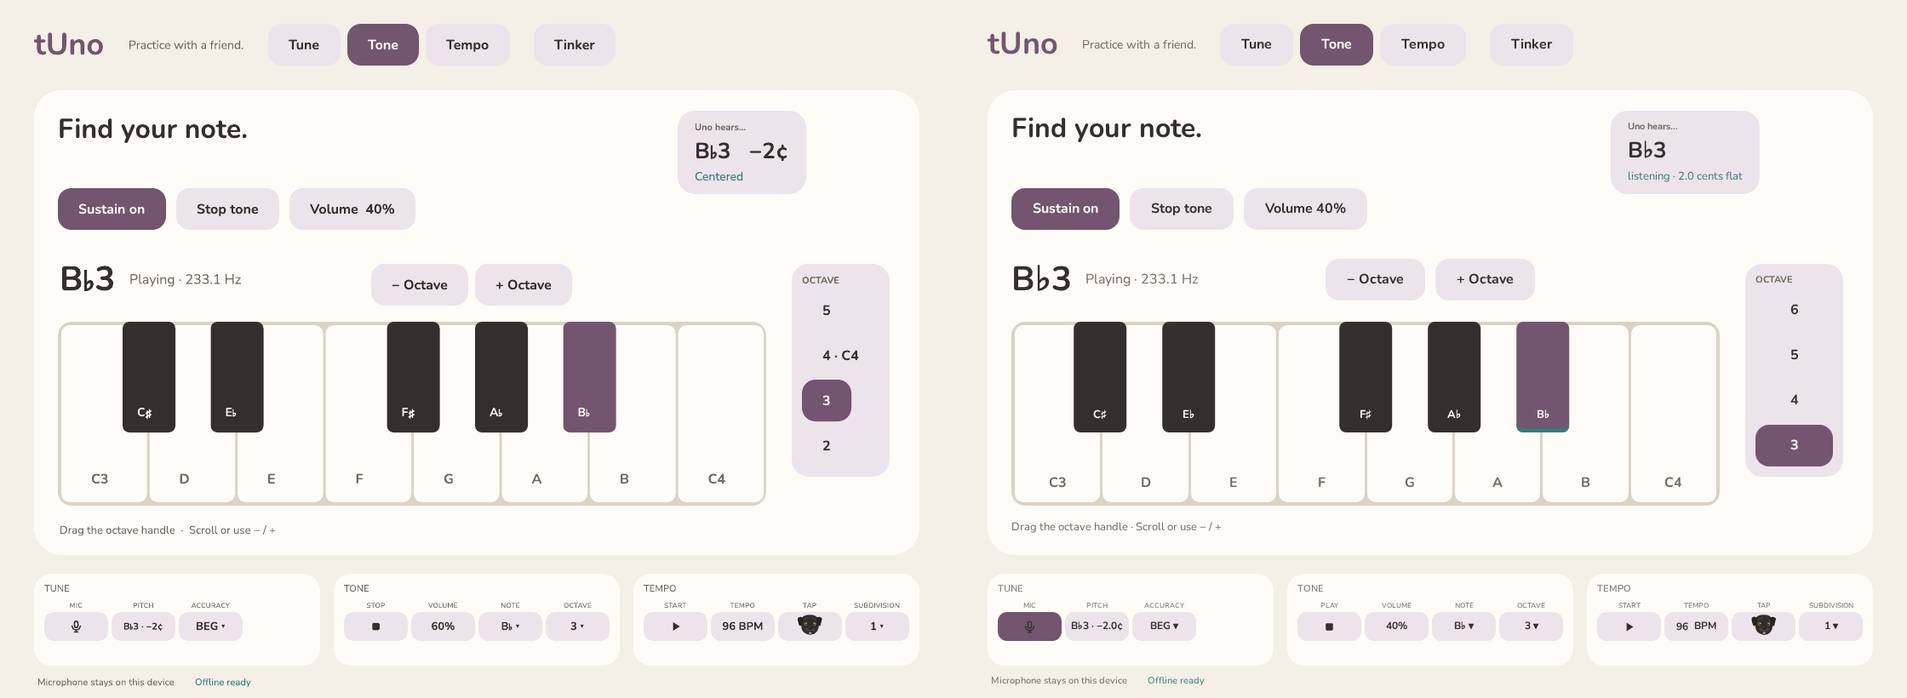
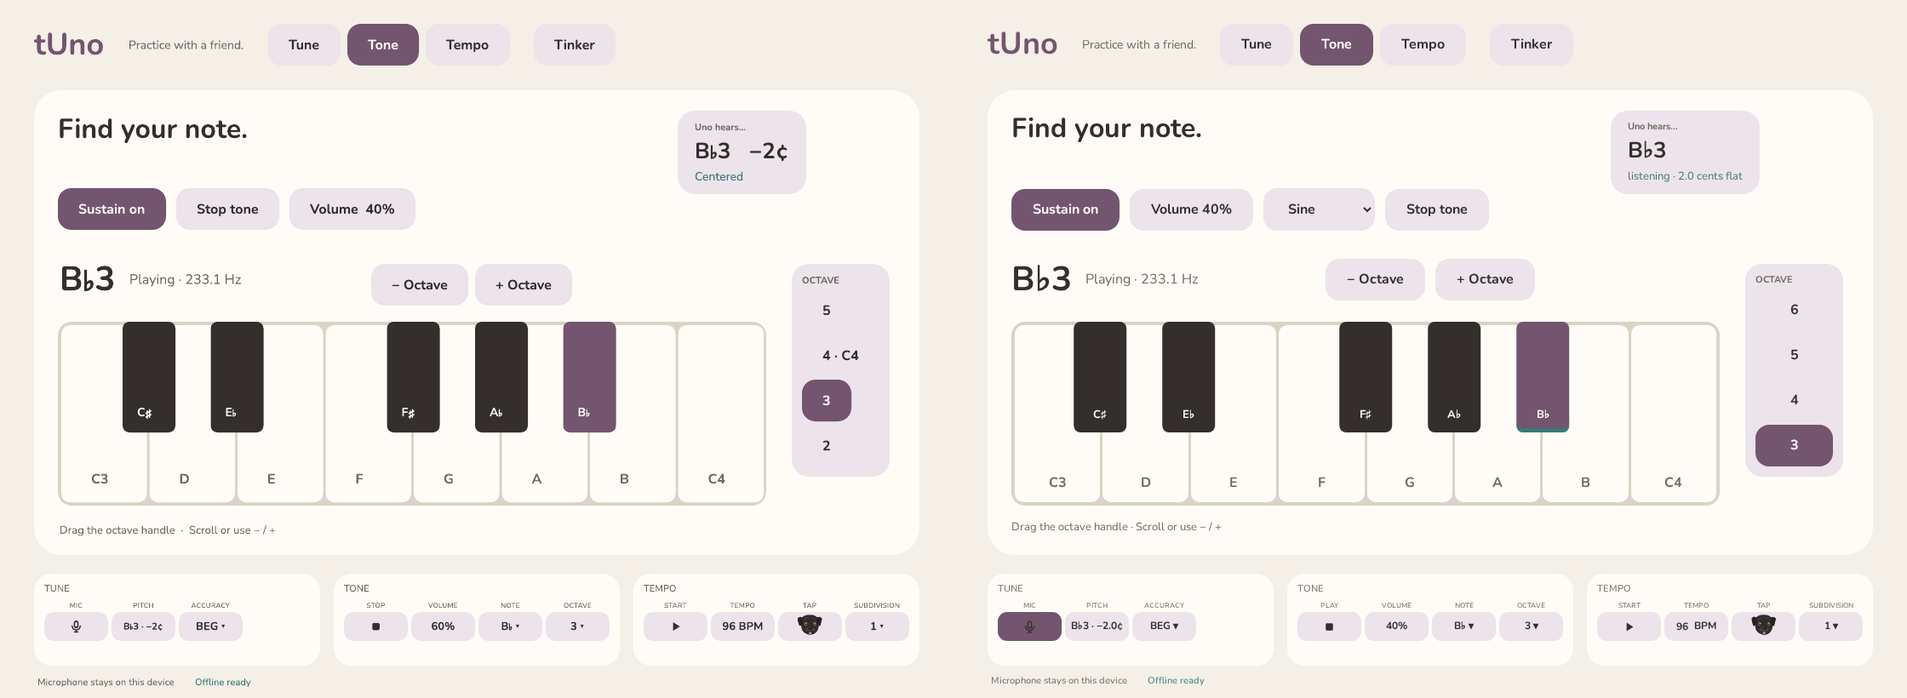
Add richer reference tones and beep and drum metronome sounds

Changed region(s): [[0.5938, 0.2744, 0.7812, 0.3354], [0.5312, 0.2744, 0.5625, 0.3049]]

diff --git a/src/ui/views/tone.ts b/src/ui/views/tone.ts
@@ -1,8 +1,9 @@
 import type { AudioController } from '../../audio/controller.ts';
 import { noteName } from '../../music/pitch.ts';
+import { TONE_SOUNDS, type ToneSound } from '../../music/tone-sounds.ts';
 import { LIMITS, toneHz } from '../../practice/state.ts';
 import type { PracticeStore } from '../../practice/state.ts';
-import { button, el, heading, pitchText, responsiveLabel, row, uno, view, volumePopover, selectorPopover } from '../components.ts';
+import { button, el, select, heading, pitchText, responsiveLabel, row, uno, view, volumePopover, selectorPopover } from '../components.ts';
 
 export function createTone(store: PracticeStore, audio: AudioController) {
   const node = view('tone', 'Reference tone');
@@ -21,7 +22,11 @@ export function createTone(store: PracticeStore, audio: AudioController) {
   const desktopVolume = volumePopover('Tone volume', volume);
   desktopVolume.node.classList.remove('mobile-only');
   desktopVolume.node.classList.add('desktop-tone-volume');
-  const controls = row(sustain, play, desktopVolume.node);
+  const sound = select(TONE_SOUNDS, value => store.dispatch({ type: 'tone-sound', value: value as ToneSound }));
+  sound.setAttribute('aria-label', 'Tone sound');
+  sound.classList.add('tone-sound', 'desktop-only');
+  sound.title = 'Sine: pure tone. Triangle: gentle overtones. Rich: stronger overtones for low notes.';
+  const controls = row(sustain, desktopVolume.node, sound, play);
   controls.classList.add('tone-controls');
   const notes = selectorPopover('Choose note', Array.from({ length: 12 }, (_, value) => ({ value, label: noteName(60 + value).replace(/\d+$/, '') })), value => { store.dispatch({ type: 'tone-note', value: (store.get().octave + 1) * 12 + Number(value) }); void audio.playTone(); });
   const notePicker = notes.trigger;
@@ -65,7 +70,7 @@ export function createTone(store: PracticeStore, audio: AudioController) {
   // One octave of keys, kept mounted so selection changes preserve keyboard focus.
   const whiteSemitones = [0, 2, 4, 5, 7, 9, 11, 12, 14];
   const keys = Array.from({ length: 15 }, (_, semitone) => {
-    const key = button('', () => { store.dispatch({ type: 'tone-note', value: (store.get().octave + 1) * 12 + semitone }); void audio.playTone(); });
+    const key = button('', () => { audio.pressToneKey((store.get().octave + 1) * 12 + semitone); });
     const whiteIndex = whiteSemitones.indexOf(semitone);
     key.className = `piano-key ${whiteIndex < 0 ? 'piano-key--black' : 'piano-key--white'}`;
     if (semitone > 12) key.classList.add('piano-key--extension');
@@ -79,7 +84,11 @@ export function createTone(store: PracticeStore, audio: AudioController) {
   mobileVolume.addEventListener('input', () => store.dispatch({ type: 'tone-volume', value: Number(mobileVolume.value) }));
   const compactVolume = volumePopover('Tone output volume', mobileVolume);
   const mobilePlay = button('Play tone', audio.toggleTone);
-  const outputControls = row(compactVolume.node, mobilePlay);
+  const mobileSound = select(TONE_SOUNDS, value => store.dispatch({ type: 'tone-sound', value: value as ToneSound }));
+  mobileSound.setAttribute('aria-label', 'Tone output sound');
+  mobileSound.classList.add('tone-sound');
+  mobileSound.title = sound.title;
+  const outputControls = row(compactVolume.node, mobileSound, mobilePlay);
   outputControls.classList.add('tone-output', 'mobile-only');
   const primary = el('div', 'tone-primary');
   primary.append(top, controls, keyboardTop, keyboard, keyboardHint, outputControls);
@@ -94,12 +103,11 @@ export function createTone(store: PracticeStore, audio: AudioController) {
     sustain.textContent = `Sustain ${state.sustain ? 'on' : 'off'}`;
     sustain.setAttribute('aria-pressed', String(state.sustain));
     volume.value = String(state.toneVolume);
+    sound.value = mobileSound.value = state.toneSound;
     desktopVolume.trigger.textContent = `Volume ${state.toneVolume}%`;
     selectedName.textContent = noteName(state.toneNote);
-    notePicker.textContent = `Note · ${noteName(state.toneNote)}`;
-    octavePicker.textContent = `Octave ${state.octave} ↕`;
     mobileVolume.value = String(state.toneVolume);
-    compactVolume.trigger.textContent = `Volume · ${state.toneVolume}%`;
+    compactVolume.trigger.textContent = `Volume ${state.toneVolume}%`;
     mobilePlay.textContent = state.tonePlaying ? 'Stop tone' : 'Play tone';
     friend.hidden = !state.showUno;
     notes.update(state.toneNote % 12);

diff --git a/src/audio/controller.ts b/src/audio/controller.ts
@@ -1,4 +1,4 @@
-import { createReferenceTone } from './tone.ts';
+import { createReferenceTone, setToneSound } from './tone.ts';
 import { detectPitch } from './detector.ts';
 import { createTimeline, createTapTempo } from '../music/rhythm.ts';
 import type { Pulse } from '../music/rhythm.ts';
@@ -6,6 +6,10 @@ import { scheduleClick } from './click.ts';
 import { toneHz, meterInfo } from '../practice/state.ts';
 import type { AudioState, PracticeStore } from '../practice/state.ts';
 import { PitchDisplay } from '../practice/pitch-display.ts';
+
+// The original SVG is the raised endpoint: rotating further up merges the tail into the body.
+export const TAIL_RAISED_ANGLE = 0;
+const TAIL_LOWERED_ANGLE = 25;
 
 /** Application-owned resources. Cancellation generations adapted from pitch-tracker. */
 export function createAudioController(store: PracticeStore) {
@@ -120,6 +124,7 @@ export function createAudioController(store: PracticeStore) {
   }
   function syncTone() {
     if (!oscillator || !gain || !context) return;
+    setToneSound(context, oscillator, store.get().toneSound);
     oscillator.frequency.setTargetAtTime(toneHz(store.get()), context.currentTime, 0.01);
     gain.gain.setTargetAtTime(store.get().toneVolume / 100 * 0.2, context.currentTime, 0.01);
   }
@@ -136,7 +141,7 @@ export function createAudioController(store: PracticeStore) {
       await ac.resume();
       if (generation !== toneGeneration) return;
       if (!oscillator) {
-        const voice = createReferenceTone(ac, toneHz(store.get()));
+        const voice = createReferenceTone(ac, toneHz(store.get()), store.get().toneSound);
         oscillator = voice.oscillator;
         gain = voice.gain;
       }
@@ -177,7 +182,7 @@ export function createAudioController(store: PracticeStore) {
     if (visualBeat) {
       const fraction = Math.max(0, Math.min(1, (now - visualBeat.time) / visualBeat.duration));
       // Return to the low endpoint on every beat and reach the high endpoint halfway through.
-      const angle = 25 * Math.cos(2 * Math.PI * fraction);
+      const angle = TAIL_RAISED_ANGLE + (TAIL_LOWERED_ANGLE - TAIL_RAISED_ANGLE) * (1 + Math.cos(2 * Math.PI * fraction)) / 2;
       pulseListeners.forEach(listener => listener(angle, true, visualBeat!.index));
     }
     if (current) update({ currentBeat: current.beat, currentPart: current.part });
@@ -222,10 +227,10 @@ export function createAudioController(store: PracticeStore) {
   }
   function stopAll() { stopMic(); stopTone(); stopMetronome(); }
   let sustain = store.get().sustain;
-  let { toneNote, a4, toneVolume } = store.get();
+  let { toneNote, a4, toneVolume, toneSound } = store.get();
   const unsubscribe = store.subscribe((state) => {
-    if (state.toneNote !== toneNote || state.a4 !== a4 || state.toneVolume !== toneVolume) {
-      toneNote = state.toneNote; a4 = state.a4; toneVolume = state.toneVolume;
+    if (state.toneNote !== toneNote || state.a4 !== a4 || state.toneVolume !== toneVolume || state.toneSound !== toneSound) {
+      toneNote = state.toneNote; a4 = state.a4; toneVolume = state.toneVolume; toneSound = state.toneSound;
       syncTone();
     }
     if (sustain !== state.sustain) { sustain = state.sustain; scheduleRelease(); }
@@ -242,6 +247,11 @@ export function createAudioController(store: PracticeStore) {
     onTap(listener: () => void) { tapListeners.add(listener); return () => tapListeners.delete(listener); },
     tapTempo: () => { tapListeners.forEach(listener => listener()); const tempo = tap(performance.now()); if (tempo !== null) store.dispatch({ type: 'tempo', value: tempo }); },
     toggleMic: () => stream || store.get().micStatus === 'requesting' ? stopMic() : void startMic(),
+    pressToneKey(note: number) {
+      if (store.get().sustain && store.get().toneNote === note && (oscillator || tonePending)) { stopTone(); return; }
+      store.dispatch({ type: 'tone-note', value: note });
+      void playTone();
+    },
     toggleTone: () => oscillator || tonePending ? stopTone() : void playTone(),
     dispose() { stopAll(); unsubscribe(); pulseListeners.clear(); tapListeners.clear(); if (context) { context.onstatechange = null; void context.close(); } },
   };

diff --git a/src/practice/state.ts b/src/practice/state.ts
@@ -1,4 +1,6 @@
 import { DEFAULT_A4_HZ, identifyPitch, noteFrequency } from '../music/pitch.ts';
+import { CLICK_SOUNDS, type ClickSound } from '../music/click-sounds.ts';
+import { TONE_SOUNDS, type ToneSound } from '../music/tone-sounds.ts';
 
 export const TOOLS = [
   { id: 'tuner', label: 'Tuner' },
@@ -42,6 +44,7 @@ export type PracticeState = Settings & AudioState & Readonly<{
   octave: number;
   sustain: boolean;
   toneVolume: number;
+  toneSound: ToneSound;
   tempo: number;
   meter: Meter;
   numbered: boolean;
@@ -49,7 +52,7 @@ export type PracticeState = Settings & AudioState & Readonly<{
   accent: boolean;
   beatAccents: readonly boolean[];
   clickVolume: number;
-  clickSound: 'click' | 'wood';
+  clickSound: ClickSound;
 }>;
 export type Action =
   | { type: 'audio'; value: Partial<AudioState> }
@@ -61,6 +64,7 @@ export type Action =
   | { type: 'octave'; value: number }
   | { type: 'sustain'; value: boolean }
   | { type: 'tone-volume'; value: number }
+  | { type: 'tone-sound'; value: ToneSound }
   | { type: 'tempo'; value: number }
   | { type: 'meter'; value: Meter }
   | { type: 'numbered'; value: boolean }
@@ -68,7 +72,7 @@ export type Action =
   | { type: 'accent'; value: boolean }
   | { type: 'beat-accent'; value: number }
   | { type: 'click-volume'; value: number }
-  | { type: 'click-sound'; value: 'click' | 'wood' };
+  | { type: 'click-sound'; value: ClickSound };
 
 function inRange(value: number, min: number, max: number, integer = false): boolean {
   return Number.isFinite(value) && value >= min && value <= max && (!integer || Number.isInteger(value));
@@ -78,7 +82,7 @@ export function createPracticeStore() {
   let state: PracticeState = Object.freeze({
     micStatus: 'idle', pitchUpdatedAt: 0, liveHz: null, displayHz: null, rms: 0, quality: 0, tonePlaying: false, metronomePlaying: false, currentBeat: null, currentPart: 0, audioError: '',
     focus: 'tuner', tunerAccuracy: 'advanced', manualHz: null, a4: DEFAULT_A4_HZ, transposition: 0,
-    showUno: true, toneNote: 58, octave: 3, sustain: true, toneVolume: 40,
+    showUno: true, toneNote: 58, octave: 3, sustain: true, toneVolume: 40, toneSound: 'sine',
     tempo: 96, meter: 'free', numbered: false, subdivision: 1, accent: true, beatAccents: [true, false, false, false], clickVolume: 50, clickSound: 'click',
   });
   const listeners = new Set<(state: PracticeState) => void>();
@@ -114,6 +118,9 @@ export function createPracticeStore() {
         case 'tone-volume':
           if (!inRange(action.value, 0, 100, true)) return;
           patch = { toneVolume: action.value }; break;
+        case 'tone-sound':
+          if (!TONE_SOUNDS.some((sound) => sound.value === action.value)) return;
+          patch = { toneSound: action.value }; break;
         case 'tempo':
           if (!inRange(action.value, LIMITS.tempo.min, LIMITS.tempo.max, true)) return;
           patch = { tempo: action.value }; break;
@@ -131,7 +138,7 @@ export function createPracticeStore() {
           if (!inRange(action.value, 0, 100, true)) return;
           patch = { clickVolume: action.value }; break;
         case 'click-sound':
-          if (!['click', 'wood'].includes(action.value)) return;
+          if (!CLICK_SOUNDS.some((sound) => sound.value === action.value)) return;
           patch = { clickSound: action.value }; break;
         case 'numbered': patch = { numbered: action.value }; break;
       }

diff --git a/src/audio/click.ts b/src/audio/click.ts
@@ -1,24 +1,35 @@
 import type { Pulse } from '../music/rhythm.ts';
-export type ClickSettings = Readonly<{ accent: boolean; clickVolume: number; clickSound: 'click' | 'wood' }>;
+import type { ClickSound } from '../music/click-sounds.ts';
+export type ClickSettings = Readonly<{ accent: boolean; clickVolume: number; clickSound: ClickSound }>;
 
 /** Short synthesized sounds keep both distributions independent of sound files. */
 export function scheduleClick(context: BaseAudioContext, pulse: Pulse, settings: ClickSettings) {
   const oscillator = context.createOscillator();
   const gain = context.createGain();
   const accented = pulse.downbeat && settings.accent;
-  oscillator.type = settings.clickSound === 'wood' ? 'triangle' : 'sine';
-  oscillator.frequency.value = accented ? 1500 : pulse.part === 0 ? 1000 : 750;
-  const level = settings.clickVolume / 100 * (accented ? 0.3 : pulse.part === 0 ? 0.2 : 0.1);
+  const beep = settings.clickSound === 'beep';
+  const drum = settings.clickSound === 'drum';
+  const duration = drum ? 0.06 : 0.04;
+  oscillator.type = beep ? 'square' : drum || settings.clickSound === 'wood' ? 'triangle' : 'sine';
+  if (drum) {
+    // A fast pitch drop gives a tight tom attack; triangle overtones add definition.
+    oscillator.frequency.setValueAtTime(accented ? 720 : 480, pulse.time);
+    oscillator.frequency.exponentialRampToValueAtTime(accented ? 240 : 160, pulse.time + 0.025);
+  } else {
+    oscillator.frequency.value = beep ? (accented ? 1760 : 1320) : accented ? 1500 : pulse.part === 0 ? 1000 : 750;
+  }
+  // Square waves carry more energy, so reduce their gain to balance the choices.
+  const level = settings.clickVolume / 100 * (accented ? 0.3 : pulse.part === 0 ? 0.2 : 0.1) * (beep ? 0.55 : 1);
   gain.gain.setValueAtTime(0, pulse.time);
   gain.gain.linearRampToValueAtTime(level, pulse.time + 0.002);
-  if (level > 0) gain.gain.exponentialRampToValueAtTime(0.00001, pulse.time + 0.035);
-  else gain.gain.setValueAtTime(0, pulse.time + 0.035);
+  if (level > 0) gain.gain.exponentialRampToValueAtTime(0.00001, pulse.time + duration - 0.005);
+  gain.gain.setValueAtTime(0, pulse.time + duration);
   oscillator.connect(gain);
   gain.connect(context.destination);
   const cleanup = () => { oscillator.disconnect(); gain.disconnect(); };
   oscillator.onended = cleanup;
   oscillator.start(pulse.time);
-  oscillator.stop(pulse.time + 0.04);
+  oscillator.stop(pulse.time + duration);
   return { oscillator, stop() {
     oscillator.onended = null;
     oscillator.stop();

diff --git a/src/ui/views/metronome.ts b/src/ui/views/metronome.ts
@@ -1,4 +1,5 @@
 import type { AudioController } from '../../audio/controller.ts';
+import { CLICK_SOUNDS, type ClickSound } from '../../music/click-sounds.ts';
 import { LIMITS, METERS, meterInfo } from '../../practice/state.ts';
 import type { Meter, PracticeStore } from '../../practice/state.ts';
 import { button, el, field, heading, responsiveLabel, row, select, view, volumePopover } from '../components.ts';
@@ -62,12 +63,12 @@ export function createMetronome(store: PracticeStore, audio: AudioController) {
   const subdivision = select([
     ...Array.from({ length: 7 }, (_, i) => ({ value: i + 1, label: `Subdiv: ${i + 1}` })),
   ], (value) => store.dispatch({ type: 'subdivision', value: Number(value) }));
-  const sound = select([{ value: 'click', label: 'Click' }, { value: 'wood', label: 'Woodblock' }],
-    (value) => store.dispatch({ type: 'click-sound', value: value as 'click' | 'wood' }));
+  const sound = select(CLICK_SOUNDS,
+    (value) => store.dispatch({ type: 'click-sound', value: value as ClickSound }));
   const mobile = matchMedia('(max-width: 650px)');
   const syncLabels = () => {
     [...subdivision.options].forEach(option => { option.textContent = `${mobile.matches ? 'Subdiv' : 'Subdivision'}: ${option.value}`; });
-    [...sound.options].forEach(option => { option.textContent = `${mobile.matches ? '' : 'Sound · '}${option.value === 'wood' ? 'Woodblock' : 'Click'}`; });
+    [...sound.options].forEach(option => { option.textContent = `${mobile.matches ? '' : 'Sound · '}${CLICK_SOUNDS.find(sound => sound.value === option.value)!.label}`; });
   };
   mobile.addEventListener('change', syncLabels);
   syncLabels();

diff --git a/tests/audio.test.ts b/tests/audio.test.ts
@@ -91,6 +91,22 @@ test('audio cancellation, coexistence, settings, disconnect and interruption', a
     await hiddenTone;
     assert.equal(store.get().tonePlaying, false);
     assert.equal(oscillators.length, count);
+    // Same-key sustain toggles also cancel an AudioContext resume still in flight.
+    audio.pressToneKey(60); audio.pressToneKey(60);
+    await Promise.resolve();
+    assert.equal(store.get().tonePlaying, false);
+    assert.equal(oscillators.length, count);
+    audio.pressToneKey(60); await Promise.resolve();
+    assert.equal(store.get().tonePlaying, true);
+    audio.pressToneKey(62); await Promise.resolve();
+    assert.equal(store.get().tonePlaying, true);
+    assert.equal(store.get().toneNote, 62);
+    audio.pressToneKey(62);
+    assert.equal(store.get().tonePlaying, false);
+    store.dispatch({ type: 'sustain', value: false });
+    audio.pressToneKey(62); await Promise.resolve();
+    audio.pressToneKey(62); await Promise.resolve();
+    assert.equal(store.get().tonePlaying, true, 'Sustain off retriggers the timed note');
   } finally {
     audio.dispose();
     if (originalRaf) Object.defineProperty(globalThis, 'requestAnimationFrame', originalRaf); else Reflect.deleteProperty(globalThis, 'requestAnimationFrame');

diff --git a/src/audio/tone.ts b/src/audio/tone.ts
@@ -1,9 +1,22 @@
+import type { ToneSound } from '../music/tone-sounds.ts';
+
+export function setToneSound(context: BaseAudioContext, oscillator: OscillatorNode, sound: ToneSound) {
+  if (sound === 'rich') {
+    if (oscillator.type === 'custom') return;
+    // Keep a strong fundamental with a few audible upper partials for low notes.
+    oscillator.setPeriodicWave(context.createPeriodicWave(
+      new Float32Array(5), new Float32Array([0, 1, 0.5, 0.25, 0.125]),
+    ));
+  } else if (oscillator.type !== sound) oscillator.type = sound;
+}
+
 /** Shared by the live controller and offline audio-render regression checks. */
-export function createReferenceTone(context: BaseAudioContext, frequency: number) {
+export function createReferenceTone(context: BaseAudioContext, frequency: number, sound: ToneSound = 'sine') {
   const oscillator = context.createOscillator();
   const gain = context.createGain();
   gain.gain.value = 0;
   oscillator.frequency.value = frequency;
+  setToneSound(context, oscillator, sound);
   oscillator.connect(gain);
   gain.connect(context.destination);
   oscillator.start();

diff --git a/src/styles.css b/src/styles.css
@@ -236,7 +236,7 @@ img { display: block; max-width: 100%; }
   .piano-key--black { width: 44px; height: 104px; font-size: 13px; }
   .piano-key[aria-pressed='true'] { box-shadow: none; }
   .keyboard-hint { font-size: 12px; line-height: 1.3; margin-top: 8px; }
-  .tone-output { display: grid; grid-template-columns: 1fr 1fr; gap: 8px; margin-top: 8px; }
+  .tone-output { display: grid; grid-template-columns: repeat(3, minmax(0, 1fr)); gap: 8px; margin-top: 8px; }
   .volume-popover > .control { width: 100%; white-space: nowrap; }
 
 }
@@ -599,4 +599,10 @@ img { display: block; max-width: 100%; }
 .volume-popup input::-moz-range-progress { height: 4px; background: var(--color-accent); }
 @media (min-width: 1001px) {
   .rhythm-controls .control { text-align: left; padding-inline: 24px; }
+}
+
+.tone-sound { min-width: 0; }
+@media (max-width: 650px) {
+  .tone-output .control { min-width: 0; font-size: 12px; padding-inline: 4px; }
+  .tone-output .volume-popover { min-width: 0; }
 }

diff --git a/src/ui/pet-tempo.ts b/src/ui/pet-tempo.ts
@@ -1,4 +1,4 @@
-import type { AudioController } from '../audio/controller.ts';
+import { TAIL_RAISED_ANGLE, type AudioController } from '../audio/controller.ts';
 import { LIMITS, type PracticeStore } from '../practice/state.ts';
 import { button } from './components.ts';
 import { animatedUno } from './uno.ts';
@@ -95,7 +95,7 @@ export function petTempo(store: PracticeStore, audio: AudioController) {
   audio.onTap(() => { if (!gesture?.holding && store.get().showUno && store.get().focus === 'metronome') dog.nod(); });
   audio.onPulseFrame((angle, playing, index) => {
     const mirrored = sideToSide && index !== null && index % 2 === 1;
-    dog.tail(sideToSide && playing ? -25 : angle, playing, mirrored);
+    dog.tail(sideToSide && playing ? TAIL_RAISED_ANGLE : angle, playing, mirrored);
     const side = index === null ? '' : index % 2 === 0 ? 'left' : 'right';
     if (node.dataset.beat !== side) node.dataset.beat = side;
   });

diff --git a/src/music/click-sounds.ts b/src/music/click-sounds.ts
@@ -1,0 +1,8 @@
+export const CLICK_SOUNDS = [
+  { value: 'click', label: 'Click' },
+  { value: 'wood', label: 'Wood' },
+  { value: 'beep', label: 'Beep' },
+  { value: 'drum', label: 'Drum' },
+] as const;
+
+export type ClickSound = typeof CLICK_SOUNDS[number]['value'];

diff --git a/src/music/tone-sounds.ts b/src/music/tone-sounds.ts
@@ -1,0 +1,7 @@
+export const TONE_SOUNDS = [
+  { value: 'sine', label: 'Sine' },
+  { value: 'triangle', label: 'Triangle' },
+  { value: 'rich', label: 'Rich' },
+] as const;
+
+export type ToneSound = typeof TONE_SOUNDS[number]['value'];

diff --git a/docs/figma-review.md b/docs/figma-review.md
@@ -27,7 +27,7 @@ The mobile PDF places the tool strip at y=602 while the practice surface ends at
 
 The screenshots exercise the actual audio pipeline with a synthetic B-flat input. Pitch readouts, hold progress, microphone state, and reduced-motion beat feedback remain live. The PDF's example frequency/cents, shared volume values, and transport states are not always internally consistent; the app keeps these values consistent instead of hardcoding the examples. Native Meter/Sound/main Subdivision menus use the browser's picker; the lower shared selectors use the specified scrolling popovers.
 
-[Raw comparison measurements](figma-review/results.json) count pixels with more than 5% difference in any color channel. Desktop frames differ by 3.33–4.69%; mobile frames by 18.52–22.91%, predominantly because the entire lower tool strip moves and live state differs. These are unmasked full-frame measurements, **not a pixel-perfect pass claim**. Inspect the images to distinguish layout corrections from runtime differences.
+[Raw comparison measurements](figma-review/results.json) count pixels with more than 5% difference in any color channel. Desktop frames differ by 3.33–5.32%; mobile frames by 18.57–22.99%, predominantly because the entire lower tool strip moves and live state differs. These are unmasked full-frame measurements, **not a pixel-perfect pass claim**. Inspect the images to distinguish layout corrections from runtime differences.
 
 Physical microphones, speakers, Safari/iOS hardware, and production deployment still require the separate checks in [release instructions](releasing.md). Browser emulation does not establish physical-device acceptance.
 
@@ -42,4 +42,14 @@ node scripts/compare-figma.mjs '/path/to/tUno — Practice with a friend.pdf'
 
 The comparison command requires Poppler (`pdftoppm`) and ImageMagick (`magick`). It writes full screenshots, side-by-side comparisons, overlays, difference images, JSON measurements and an HTML index to `dist/validation/figma/`.
 
-The layout regression runs in Chromium and Firefox as part of `npm run verify`. It exercises 320, 360, 375, 390, 414, 430, 650, 768 and 1120px widths; checks visible control intersections and container/viewport overflow; opens the shared menus and volume slider; switches Uno/Numbers; toggles beat accents; edits 240 BPM; and starts/stops actual metronome playback. Each browser produces 54 layout checks and screenshots in `dist/validation/layout/`.
+The layout regression runs in Chromium and Firefox as part of `npm run verify`. It exercises 320, 360, 375, 390, 414, 430, 650, 768 and 1120px widths; checks visible control intersections and container/viewport overflow; opens the shared menus and volume slider; switches Uno/Numbers; toggles beat accents; edits 240 BPM; and starts/stops actual metronome playback. Each browser produces 63 layout checks and screenshots in `dist/validation/layout/`.
+
+## Sound and interaction follow-up
+
+PR #8 (`fccea0e`) is incorporated on this branch. Tone now offers Sine, Triangle and Rich between Volume and Play/Stop; metronome offers Click, Woodblock, Beep and Drum. The tone control is an intentional addition beyond the supplied PDF. Both responsive selectors share the same sound and change an active voice without changing pitch or volume.
+
+With Sustain on, pressing the sounding piano key stops it; another press starts it, and a different key changes pitch. Rapid repeated presses cancel pending audio startup. With Sustain off, key presses retrigger the timed note.
+
+Both tail modes use the original SVG pose as their raised endpoint, rather than curling the tail into the torso. Vertical motion lowers from that endpoint on each beat; sideways motion mirrors it without changing its height. Browser checks measure the transformed tail tip on both sides as well as its audio phase.
+
+The expanded layout checks also exercise the longest tone-sound name during playback at all nine widths. There are no placeholder controls or new design decisions requiring approval; the sound selector needs the planned Figma update.
